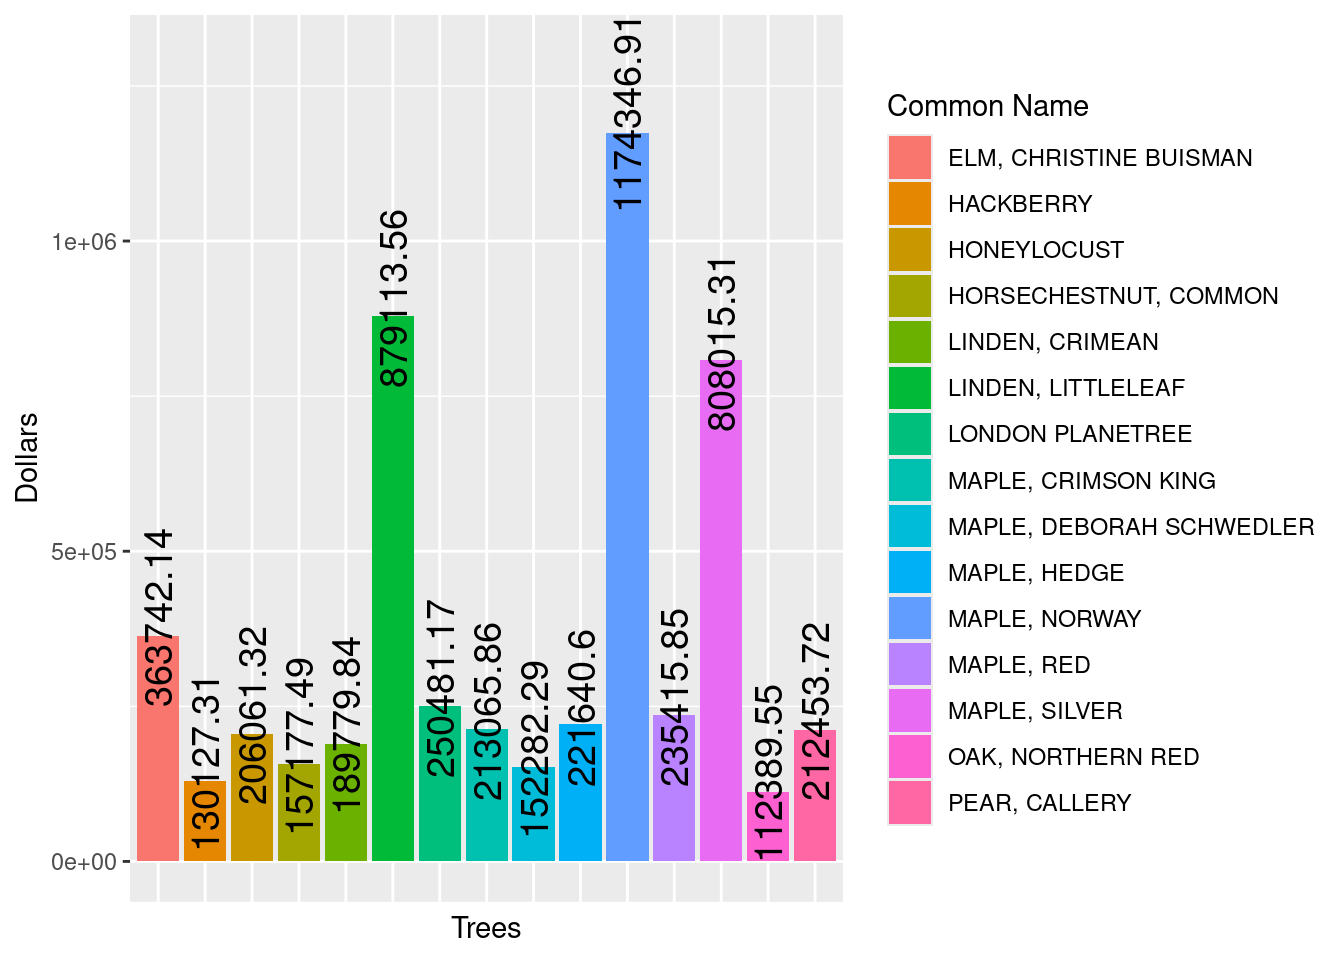
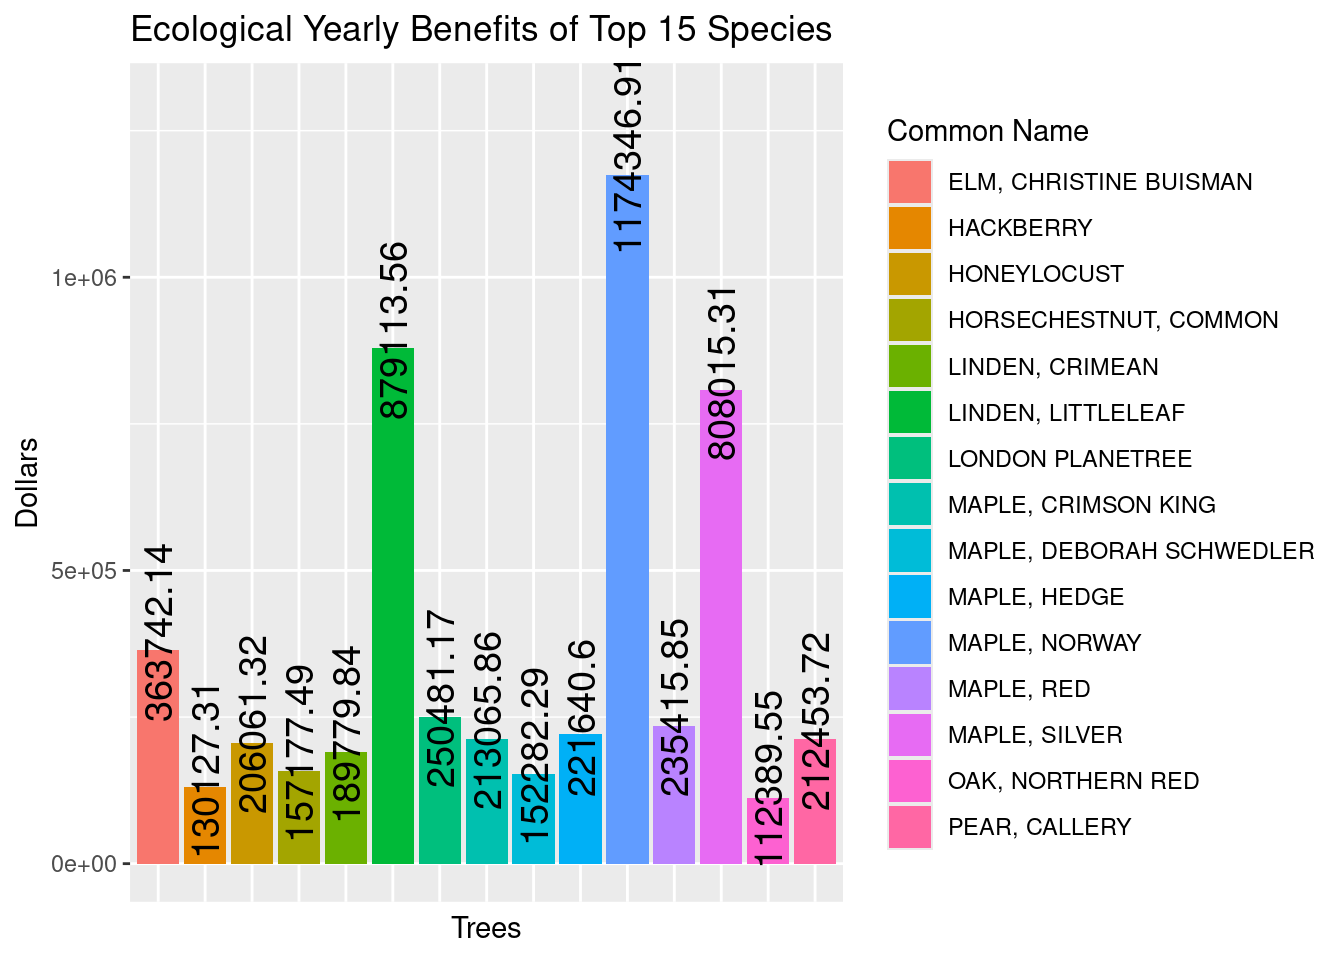
Built site for gh-pages

diff --git a/index.html b/index.html
@@ -1143,7 +1143,7 @@ pre > code.sourceCode > span > a:first-child::before { text-decoration: underlin
 <span id="cb12-14"><a href="#cb12-14" aria-hidden="true" tabindex="-1"></a>    <span class="at">axis.text.x =</span> <span class="fu">element_blank</span>(),   <span class="co"># Remove x-axis tick labels</span></span>
 <span id="cb12-15"><a href="#cb12-15" aria-hidden="true" tabindex="-1"></a>    <span class="at">axis.ticks.x =</span> <span class="fu">element_blank</span>()   <span class="co"># Remove x-axis ticks</span></span>
 <span id="cb12-16"><a href="#cb12-16" aria-hidden="true" tabindex="-1"></a>  ) <span class="sc">+</span></span>
-<span id="cb12-17"><a href="#cb12-17" aria-hidden="true" tabindex="-1"></a>  <span class="fu">labs</span>(<span class="at">fill =</span> <span class="st">"Common Name"</span>) <span class="sc">+</span></span>
+<span id="cb12-17"><a href="#cb12-17" aria-hidden="true" tabindex="-1"></a>  <span class="fu">labs</span>(<span class="at">fill =</span> <span class="st">"Common Name"</span>, <span class="at">title =</span> <span class="st">"Ecological Yearly Benefits of Top 15 Species"</span>) <span class="sc">+</span></span>
 <span id="cb12-18"><a href="#cb12-18" aria-hidden="true" tabindex="-1"></a>  <span class="fu">xlab</span>(<span class="st">"Trees"</span>) <span class="sc">+</span></span>
 <span id="cb12-19"><a href="#cb12-19" aria-hidden="true" tabindex="-1"></a>  <span class="fu">ylab</span>(<span class="st">"Dollars"</span>)</span></code><button title="Copy to Clipboard" class="code-copy-button"><i class="bi"></i></button></pre></div>
 </details>
